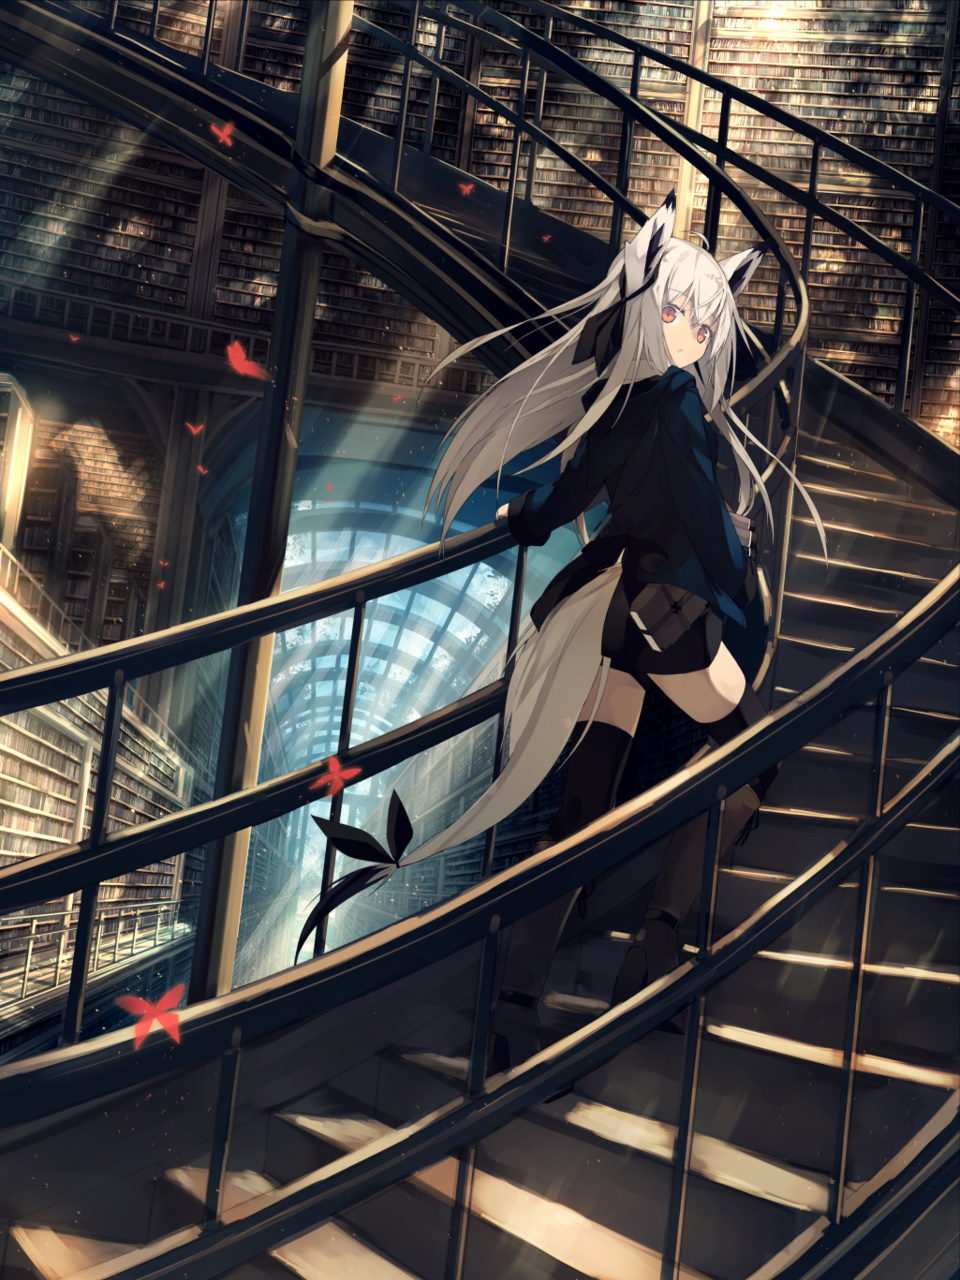
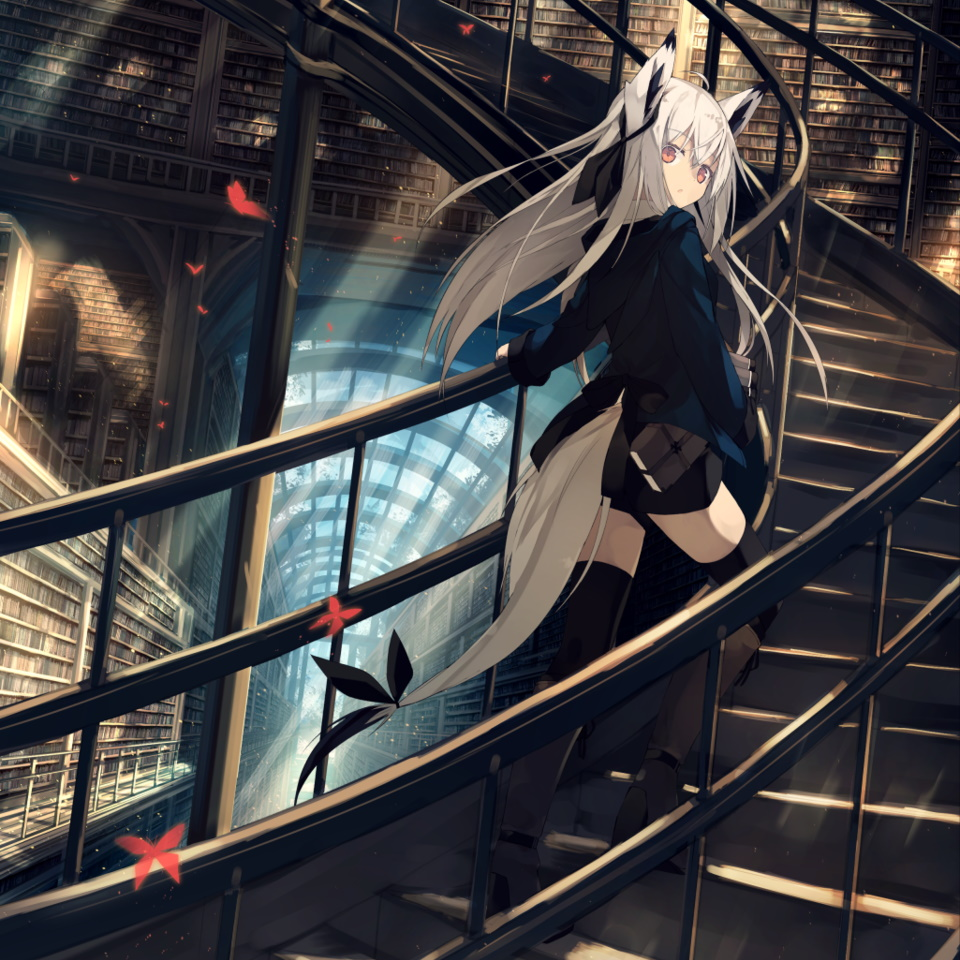
更新中

diff --git a/docs/assets/themes/breeze.css b/docs/assets/themes/breeze.css
@@ -824,10 +824,16 @@ code .token {
   position: relative;
   left: auto;
 }
+
 thead tr td {
   /*表格标题居中显示*/
   text-align: center;
   /*表格标题强制不换行*/
   word-break: keep-all;
   white-space: nowrap;
+}
+.markdown-section img {
+  /*markdown图片居中对齐*/
+  text-align: center;
+  margin: 0 auto;
 }

diff --git a/docs/assets/css/style.css b/docs/assets/css/style.css
@@ -2,5 +2,5 @@
   font-size: 12px;
   font-style: italic;
   color: grey;
-  text-align: right;
+  text-align: center;
 }

diff --git a/docs/zh/README.md b/docs/zh/README.md
@@ -3,5 +3,6 @@
 传说，在风之一族世代守卫的古代遗迹中，坐落着一座纯白无瑕，仿佛不属于这个世界的大图书馆。  
 而这座大图书馆的管理员，则是一名穿着象征灵使身份的深色风衣和三角帽，拥有白色长发和赤红瞳孔的风之子少女。
 
-![](../assets/images/windkid_girl_in_the_great_library.png ":size=360")
-<span class="image-note">画师：凪白みと</span>
+![](../assets/images/windkid_girl_in_the_great_library.png ":size=480")
+
+<div class="image-note">画师：凪白みと</div>

diff --git a/docs/en/README.md b/docs/en/README.md
@@ -5,5 +5,7 @@ localed a great library, purely and flawlessly, that does not seem to belong to 
 And the librarian of this pure and flawless library is a girl with long white hair and crimson eyes 
 wearing a dark windbreaker and a cocked hat that symbolizes the identity of charmer.
 
-![](../assets/images/windkid_girl_in_the_great_library.png ":size=360")
-<span class="image-note">Painter: 凪白みと</span>
+![](../assets/images/windkid_girl_in_the_great_library.png ":size=480")
+
+<div class="image-note">Painter: 凪白みと</div>
+
